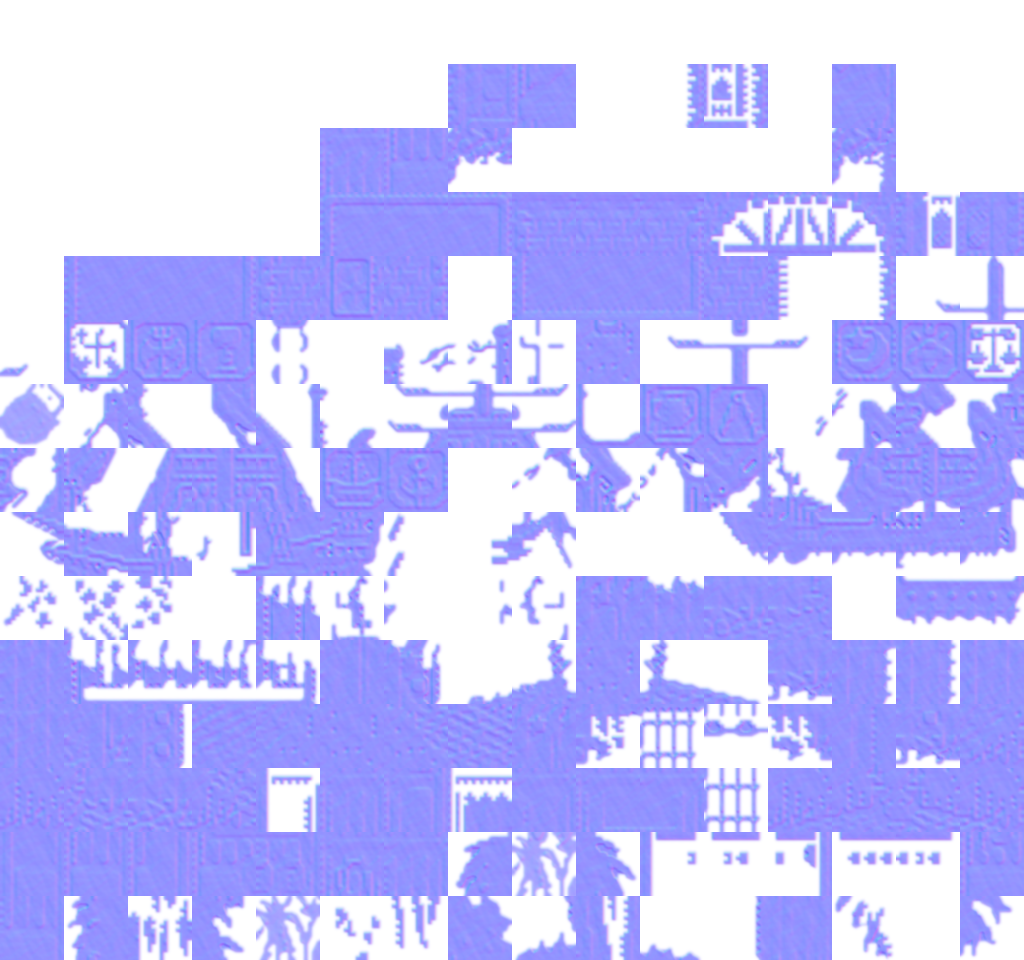
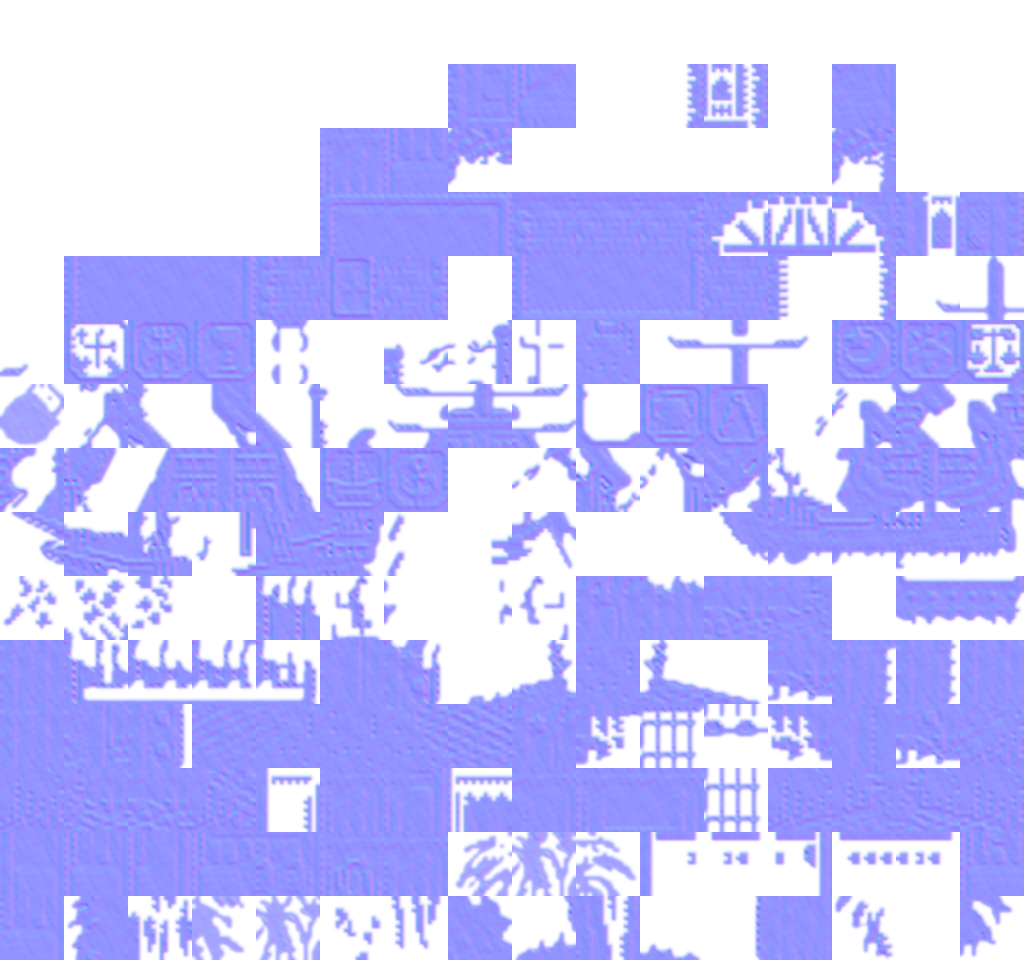
fix(battle,palace,art): fix ship naming cancel, palace original confirms, and palm foliage

Changed region(s): [[0.5625, 0.8438, 0.625, 0.9375], [0.4375, 0.875, 0.5, 0.9375], [0.1875, 0.9375, 0.25, 1.0]]

diff --git a/web/src/ui/buildings/palace.ts b/web/src/ui/buildings/palace.ts
@@ -63,6 +63,7 @@ export async function runDomPalaceWorkbench(palace: any): Promise<void> {
 
   let tab = 0; // 0: 晋见国王, 1: 势力状况, 2: 许可与归化, 3: 王室援助
   let selRegion = 0;
+  let permConfirm: null | "taxFree" | "naturalize" = null;
   let aidNamingOpen = false;
   let aidShipName = "";
   let notice = initGreet;
@@ -101,7 +102,7 @@ export async function runDomPalaceWorkbench(palace: any): Promise<void> {
           btn.className = `uw2-btn uw2-tab-btn ${tab === idx ? "active" : ""}`;
           btn.disabled = tb.disabled;
           btn.textContent = tb.label;
-          btn.addEventListener("click", () => { tab = idx; aidNamingOpen = false; render(); });
+          btn.addEventListener("click", () => { tab = idx; permConfirm = null; aidNamingOpen = false; render(); });
           shell.toolbar.appendChild(btn);
         });
 
@@ -239,6 +240,7 @@ export async function runDomPalaceWorkbench(palace: any): Promise<void> {
           lomBtn.className = "uw2-row-card";
           lomBtn.textContent = UI_STR.palaceActions.letterOfMarque;
           lomBtn.addEventListener("click", () => {
+            permConfirm = null;
             const target = (palace.nation + 0x1d) & 0xff;
             const slot = palace.invSlot(target);
             if (slot === -1) { notice = capMsg(c, 0x360); render(); return; }
@@ -262,16 +264,15 @@ export async function runDomPalaceWorkbench(palace: any): Promise<void> {
           tfBtn.disabled = !palace.same();
           tfBtn.textContent = UI_STR.palaceActions.taxFree;
           tfBtn.addEventListener("click", () => {
+            permConfirm = null;
             const slot = palace.invSlot(tfTarget);
             if (slot === -1) { notice = capMsg(c, 0x368); render(); return; }
             if (slot === -2) { notice = capMsg(c, 0x361); render(); return; }
-            if (tfCostW > 0) {
-              if (plS16(Math.trunc(palace.money / 10000)) < tfCostW) { notice = capMsg(c, 0x36e); render(); return; }
-              palace.money = (palace.money + Math.imul(tfCostW, -10000)) | 0;
-            }
-            m.setInventory(slot, tfTarget);
-            b.p.panels();
-            notice = capMsg(c, 0x367);
+            permConfirm = "taxFree";
+            const parts = [capMsg(c, 0x369)];
+            if (c.rt.month % 6 < 3) parts.push(capMsg(c, 0x36a));
+            parts.push(tfCostW > 0 ? capMsg(c, 0x36d, tfCostW) : capMsg(c, 0x36b));
+            notice = parts.join("\n");
             render();
           });
 
@@ -281,23 +282,73 @@ export async function runDomPalaceWorkbench(palace: any): Promise<void> {
           natBtn.disabled = !canNaturalize;
           natBtn.textContent = UI_STR.palaceActions.naturalize;
           natBtn.addEventListener("click", () => {
-            const hero = m.heroPerson();
-            const oldNat = hero.face & 7, newNat = palace.nation;
-            hero.face = (hero.face & 0xf0) | newNat;
-            m.fleet(hero.fleet).homePort = b.port;
-            const country = m.country(newNat);
-            const ce = getCountryExtra(country);
-            if (ce.rival === 7) ce.rival = 6;
-            country.aidMoneyK = 0; ce.clearAidExtra(); country.aidShipType = 0;
-            const oldVal = hd.getCountryStanding(oldNat);
-            if (oldVal >= 30) hd.setCountryStanding(oldNat, (oldVal - 30) & 0xff);
-            hd.setCountryStanding(newNat, plUmax(100, plUmin(hd.getCountryStanding(newNat) + 10, 200)));
-            b.p.panels();
-            notice = capMsg(c, 0x1cc);
+            permConfirm = "naturalize";
+            notice = capMsg(c, 0x1ca, palace.heroName());
             render();
           });
 
           box.append(lomBtn, tfBtn, natBtn);
+
+          if (permConfirm) {
+            const cCard = document.createElement("div");
+            cCard.className = "uw2-action-box";
+            cCard.style.cssText = "margin-top:6px;padding:12px;border-radius:8px;background:rgba(255,252,242,0.85);border:1px solid rgba(154,119,56,0.34);";
+            const actRow = document.createElement("div");
+            actRow.style.cssText = "display:flex;gap:8px;justify-content:flex-end;";
+
+            const noBtn = document.createElement("button");
+            noBtn.type = "button";
+            noBtn.className = "uw2-btn";
+            noBtn.textContent = "否";
+            noBtn.addEventListener("click", () => {
+              const kind = permConfirm;
+              permConfirm = null;
+              notice = kind === "naturalize" ? capMsg(c, 0x1cb) : initGreet;
+              render();
+            });
+
+            const yesBtn = document.createElement("button");
+            yesBtn.type = "button";
+            yesBtn.className = "uw2-btn uw2-btn-primary";
+            yesBtn.textContent = "是";
+            yesBtn.addEventListener("click", () => {
+              const kind = permConfirm;
+              permConfirm = null;
+              if (kind === "taxFree") {
+                const slot = palace.invSlot(tfTarget);
+                if (slot === -1) { notice = capMsg(c, 0x368); render(); return; }
+                if (slot === -2) { notice = capMsg(c, 0x361); render(); return; }
+                if (tfCostW > 0) {
+                  if (plS16(Math.trunc(palace.money / 10000)) < tfCostW) { notice = capMsg(c, 0x36e); render(); return; }
+                  palace.money = (palace.money + Math.imul(tfCostW, -10000)) | 0;
+                }
+                m.setInventory(slot, tfTarget);
+                b.p.panels();
+                notice = capMsg(c, 0x367);
+                render();
+                return;
+              }
+              const hero = m.heroPerson();
+              const oldNat = hero.face & 7, newNat = palace.nation;
+              hero.face = (hero.face & 0xf0) | newNat;
+              m.fleet(hero.fleet).homePort = b.port;
+              const country = m.country(newNat);
+              const ce = getCountryExtra(country);
+              if (ce.rival === 7) ce.rival = 6;
+              country.aidMoneyK = 0; ce.clearAidExtra(); country.aidShipType = 0;
+              const oldVal = hd.getCountryStanding(oldNat);
+              if (oldVal >= 30) hd.setCountryStanding(oldNat, (oldVal - 30) & 0xff);
+              hd.setCountryStanding(newNat, plUmax(100, plUmin(hd.getCountryStanding(newNat) + 10, 200)));
+              b.p.panels();
+              notice = capMsg(c, 0x1cc);
+              render();
+            });
+
+            actRow.append(noBtn, yesBtn);
+            cCard.appendChild(actRow);
+            box.appendChild(cCard);
+          }
+
           right.appendChild(box);
         } else {
           const rt = document.createElement("div");
@@ -400,7 +451,7 @@ export async function runDomPalaceWorkbench(palace: any): Promise<void> {
               if (trimmed) {
                 const enc = encodeTextForFont(c.font, trimmed);
                 if (!enc) {
-                  notice = "船名包含无法编码的字符，请重新输入。";
+                  notice = capMsg(c, 0x22b);
                   render();
                   return;
                 }

diff --git a/web/src/scenes/battle.js b/web/src/scenes/battle.js
@@ -28,6 +28,7 @@ import {
   personRawBytes,
   shipSlotByAddr,
   toggleSpritePhase,
+  writeShipName,
 } from "../model/world_helpers.ts";
 import { hasDom, runDomStoryCard } from "../ui/modals.ts";
 import { BATTLE_VIEWPORT, renderWideBattle, hideDomBattleHud, runDomBattleFleetModal, runDomBattlePersonModal, runDomBattleCrewModal, runDomBattleShipModal, runDomBattleOrdersModal, runDomBattleSignal, runDomBattleShipOrders } from "../ui/battle_hud.ts";
@@ -2336,6 +2337,7 @@ export class NavalBattle {
     D.ship = n; D.flags = S.flags;
     N.maxGuns = R.maxGuns; N.type = R.type; N.flags = R.flags;
     N.maxCrew = R.maxCrew; N.maxCargo = R.maxCargo;
+    writeShipName(N, R.nameBytes);
     if (M) {
       M.water = 0; M.food = 0; M.material = 0; M.ammo = 0;
       M.navRatio = 0x19; M.lookRatio = 0x32; M.captain = capt; M.morale = 0x3c;
@@ -2345,8 +2347,10 @@ export class NavalBattle {
     m.person(capt).role = 2;
     if (this.c.scr.wideRenderer) b.beginWideTalk(null); else await this.scWin(0);
     this.c.message(0x22d);
+    const oldName = N.nameBytes.slice();
     const ni = b.nameInput();
-    for (;;) { ni.prompt(2, 7); if ((await ni.run(N.addr, 7)) === 1) break; await b.closeTalk(); }   // 2e09:29a0 / 26a5
+    ni.prompt(2, 7);
+    if ((await ni.run(N.addr, 7)) !== 1) writeShipName(N, oldName);
     await b.closeTalk();
   }
   // 10984 声望 ([9bfb] 为奇数时不做)

diff --git a/web/src/scenes/shipyard.js b/web/src/scenes/shipyard.js
@@ -399,6 +399,7 @@ class ShipyardMixin {
     si.maxGuns = T.maxGuns; si.type = t;
     si.flags = tmpl.flags; si.maxCrew = tmpl.maxCrew;
     si.maxCargo = (T.capacity - si.maxGuns - si.maxCrew) & 0xffff;
+    writeShipName(si, tmpl.nameBytes);
     const d = Math.trunc(9 * T.durability / 10) & 0xffff;
     S.maxDurability = (d - Math.trunc((d & 0xff) / 15)) & 0xff; S.durability = S.maxDurability;
     S.turn = T.turn; S.propulsion = T.propulsion;
@@ -411,12 +412,10 @@ class ShipyardMixin {
     M.loadTotal = 0; M.figurehead = 0;
     for (let k = 0; k < GameConst.CARGO_SLOTS; k++) { M.setCargoGoods(k, GameConst.EMPTY_SLOT); M.setCargoAmts(k, 0); }
     this.greet(0xc7);
+    const oldName = si.nameBytes.slice();
     const ni = this.nameInput();
-    for (;;) {
-      ni.prompt(2, 7);
-      if ((await ni.run(si.addr, 7)) === 1) break;
-      await win.close();
-    }
+    ni.prompt(2, 7);
+    if ((await ni.run(si.addr, 7)) !== 1) writeShipName(si, oldName);
     await win.close();
   }
   // 2b2f2 船员栏第一个职务 ≥ 3 的人 → b2f7

diff --git a/web/src/ui/dos/index.js b/web/src/ui/dos/index.js
@@ -6,6 +6,7 @@ import { MenuSystem } from "./menu.js";
 import { Graph } from "./graph.js";
 import { cprintf } from "./printf.js";
 import { Kao } from "../../decoders/kao.js";
+import { toSimp } from "../t2s.ts";
 
 export async function createUI(ctx) {
   const gfx = new Uint8Array(0x4000);
@@ -33,7 +34,7 @@ export async function createUI(ctx) {
   const message = (n, ...args) => {
     cprintf(encodeMessage(n), args, ch => con.putc(ch));
   };
-  const messageText = n => (msgText[n] ?? "").replace(/\{[0-9A-F]{2}\}/g, "");
+  const messageText = n => toSimp((msgText[n] ?? "").replace(/\{[0-9A-F]{2}\}/g, "").replace(/\uE2BE/g, "十"));
   const printf = (fmt, ...args) => cprintf(typeof fmt === "string" ? ctx.font.encode(fmt + "\0") : fmt, args, ch => con.putc(ch));
   // 2e09:57aa 读 MENU.DAT 第 n 条: {宽}{项数} + 各项字符串 → 字节数组 (各含结尾 0)
   // 开头 2 bytes = {宽}{项数}; 宽为 0x0A 时 menu.json 写成 "\n" 而不是 "{0A}"

diff --git a/web/src/scenes/sea.js b/web/src/scenes/sea.js
@@ -1034,7 +1034,7 @@ export class SeaScene extends PortScene {
     return 0;
   }
   // 23a97(T, F, mode): 距离场建好后由舰队沿距离递减走 (最多 256 步, 每步取 8 邻格中最小的; 都不更小时往北), 第一步的方向一直延伸到不再同向的位置 → T
-  //   舰队与目标同一格时 T = 区域左上 (原版如此)。mode ≠ 0 的后半 (再尝试转向) 只有舰队 AI 使用, 尚未移植
+  //   舰队与目标同一格时 T = 区域左上 (原版如此)。mode ≠ 0 时在路线转弯处按原版逻辑先试 方向 ±1 再延伸
   pathStep(f, T, mode) {
     const F = this.asFleet(f), D = this.SJ.tab.path8;
     if (!this.pathField(F, T)) return 0;

diff --git a/tools/build_hd_textures.py b/tools/build_hd_textures.py
@@ -748,7 +748,15 @@ def process_portchip_sheet(set_idx: int, p1: int, p2: int, p3: int, mats, water_
             # 行1 (t_id >= 16) 且位于 < p2 的多黑线大门下半格/深色屋檐瓦片归为立体建筑，但排除石板路面、台阶与纯地面墙影
             is_arch_walk = (t_id >= 16) and (t_id < p2) and (c0_cnt >= 85) and not np.any(is_water) and not is_ground_shadow_tile and not is_road_curb
             is_walk = (t_id < p2) and not is_arch_walk
-            is_tree_tile = (t_id >= p2) and (int(np.sum((tile_idx == 13) | (tile_idx == 14))) >= 120) and not np.any(is_water) and (c0_cnt >= 8)
+            is_tree_tile = (
+                (t_id >= p2)
+                and not np.any(is_water)
+                and (c0_cnt >= 8)
+                and (
+                    int(np.sum((tile_idx == 13) | (tile_idx == 14))) >= 120
+                    or (set_idx == 3 and t_id in (215, 216, 217, 227, 228))
+                )
+            )
             is_shore_tile = (t_id >= p2) and np.any(is_water) and (int(np.sum((tile_idx == 13) | (tile_idx == 14))) >= 18)
             water_px = int(np.sum(is_water))
             is_flat_beach = (t_id >= p2) and (
@@ -797,13 +805,15 @@ def process_portchip_sheet(set_idx: int, p1: int, p2: int, p3: int, mats, water_
                 sem[is_sand] = 2
                 sem[is_grass] = 3
             elif is_tree_tile:
-                # 仅把与图块外缘草坪 (13/14) 不连通的内部树冠与树干保留为遮挡实体，外围草地归入草坪 sem=3
+                # 仅把与图块外缘草坪 (13/14) 不连通的内部树冠与树干保留为遮挡实体，外围草地/沙地归入对应地表 sem
                 grass_mask = (tile_idx == 13) | (tile_idx == 14)
                 lbl_g, _ = label(grass_mask, structure=np.array([[0, 1, 0], [1, 1, 1], [0, 1, 0]], dtype=np.int32))
                 border_ids = set(lbl_g[0, :].tolist()) | set(lbl_g[-1, :].tolist()) | set(lbl_g[:, 0].tolist()) | set(lbl_g[:, -1].tolist())
                 border_ids.discard(0)
-                outer_grass = np.isin(lbl_g, list(border_ids))
-                outer_bg = outer_grass
+                outer_grass = outer_grass | np.isin(lbl_g, list(border_ids))
+                outer_bg = outer_grass | outer_sand
+                if np.any(outer_sand):
+                    sem[outer_sand] = 2
                 sem[outer_grass] = 3
             else:
                 if is_flat_beach:
